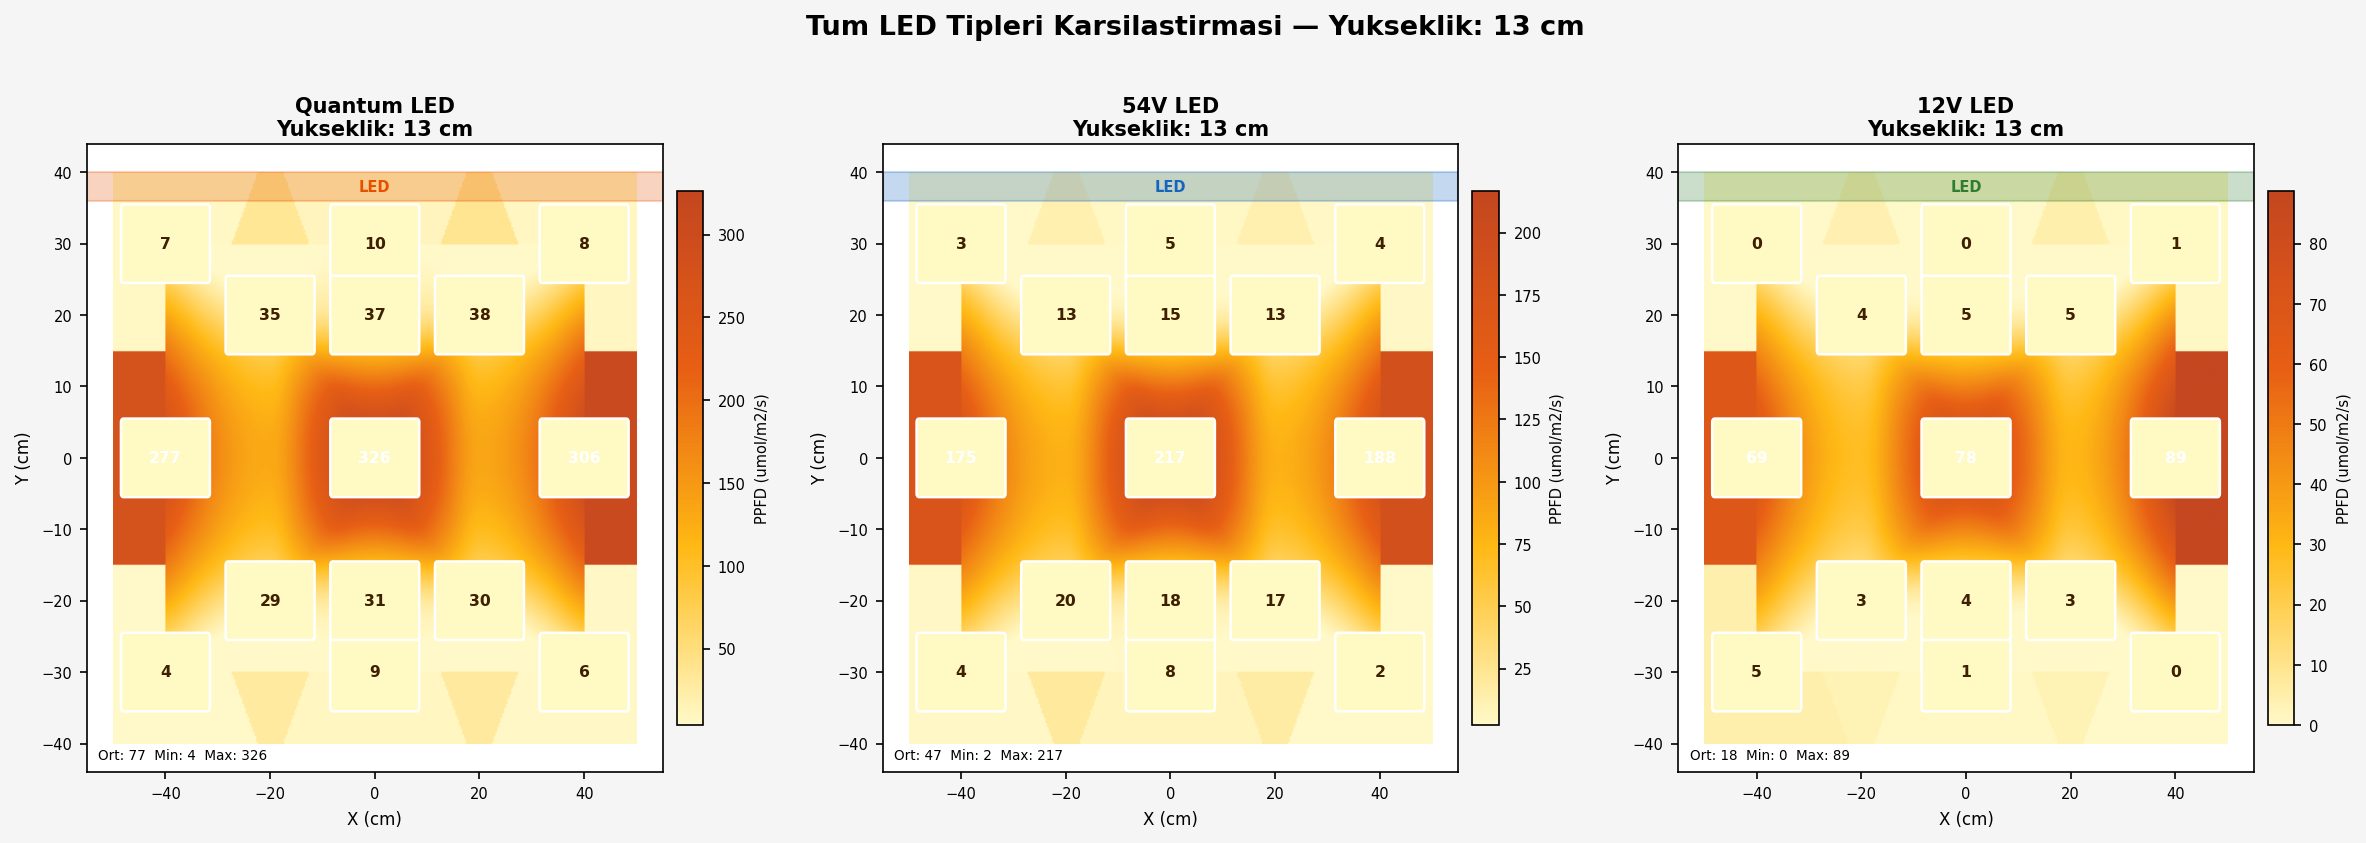
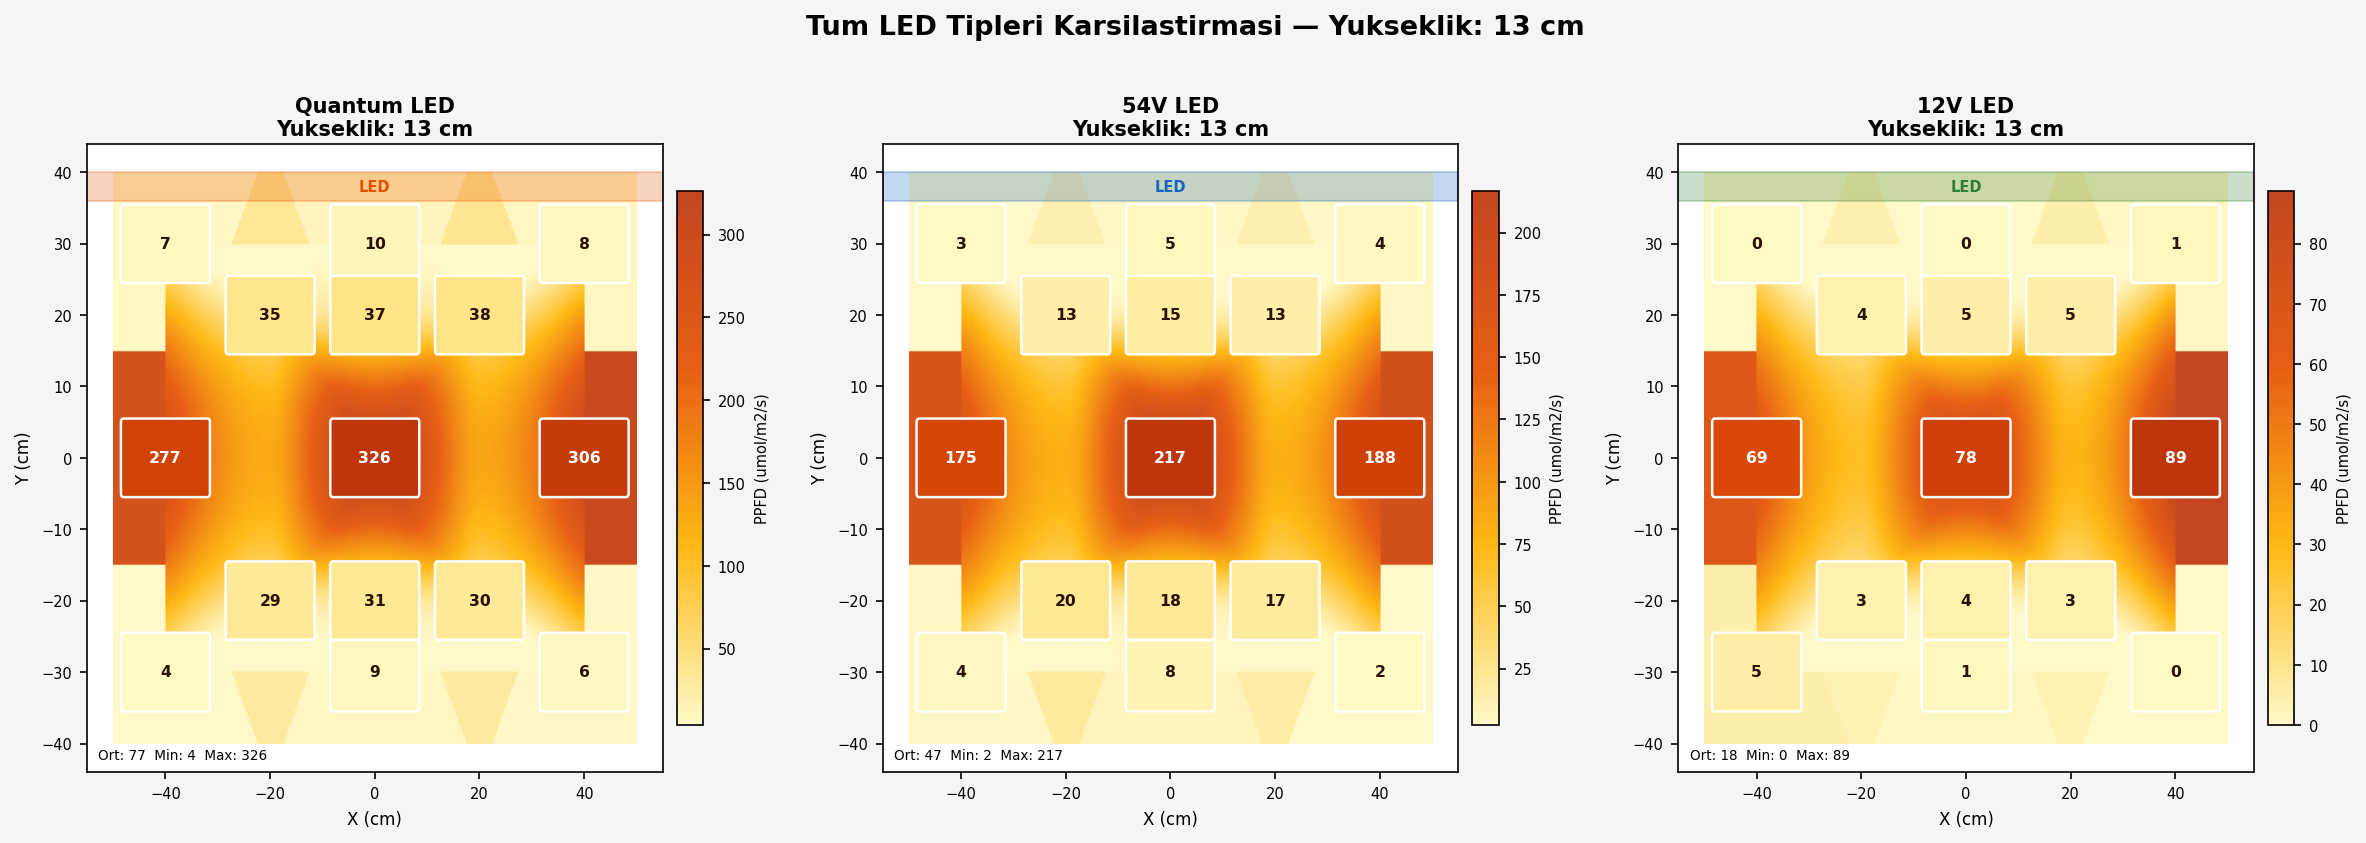
Fix heatmap text color: luminance-based selection, correct box colors

diff --git a/generate_measurement_heatmaps.py b/generate_measurement_heatmaps.py
@@ -82,10 +82,11 @@ def make_panel(ax, x, y, values, title, led_color, h_nominal):
     # Overlay measured value boxes
     box_w, box_h = 16, 10
     for xi, yi, vi in zip(x, y, values):
-        # Determine text colour based on intensity
         norm_v = (vi - vmin) / (vmax - vmin + 1e-9)
-        txt_col = 'white' if norm_v > 0.55 else '#3E2000'
-        bg_col  = plt.cm.ScalarMappable(cmap=cmap).to_rgba(norm_v)
+        bg_col = cmap(norm_v)           # directly query colormap — reliable RGBA
+        r, g, b, _ = bg_col
+        luminance = 0.299*r + 0.587*g + 0.114*b
+        txt_col = 'white' if luminance < 0.55 else '#2B1200'
 
         rect = patches.FancyBboxPatch(
             (xi - box_w/2, yi - box_h/2), box_w, box_h,
